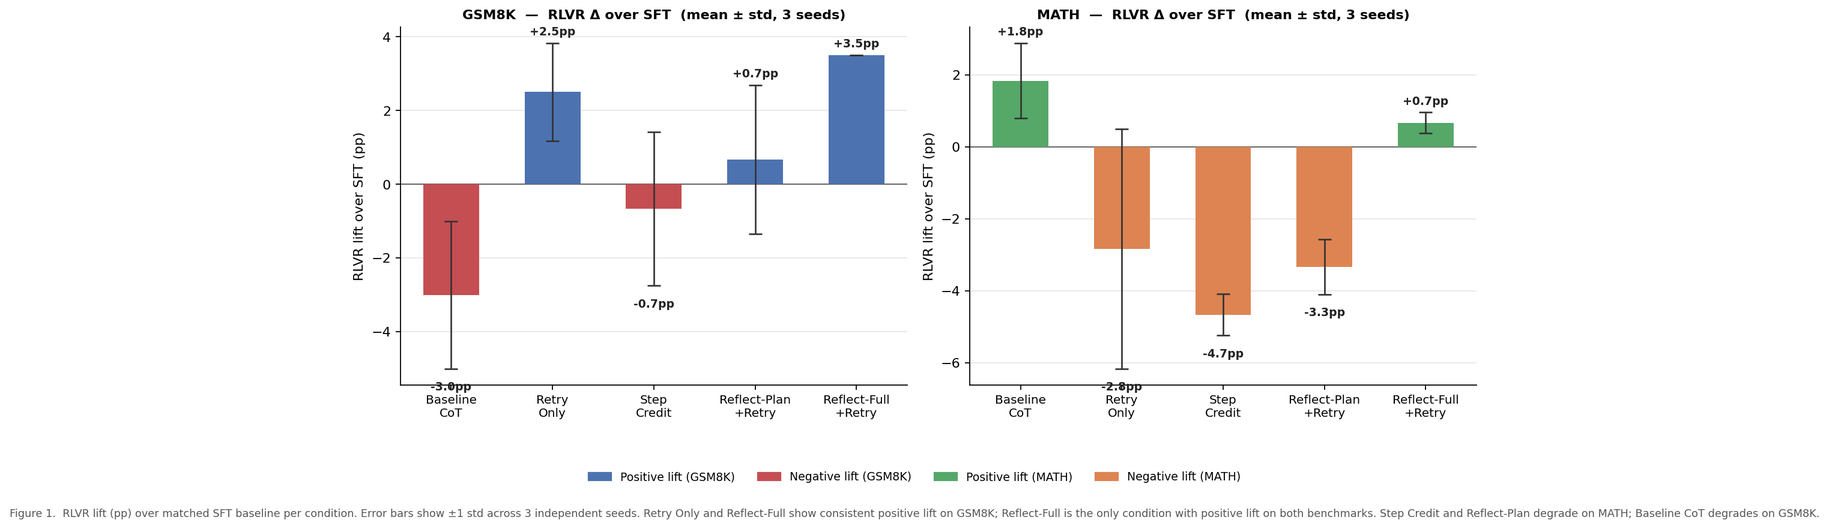
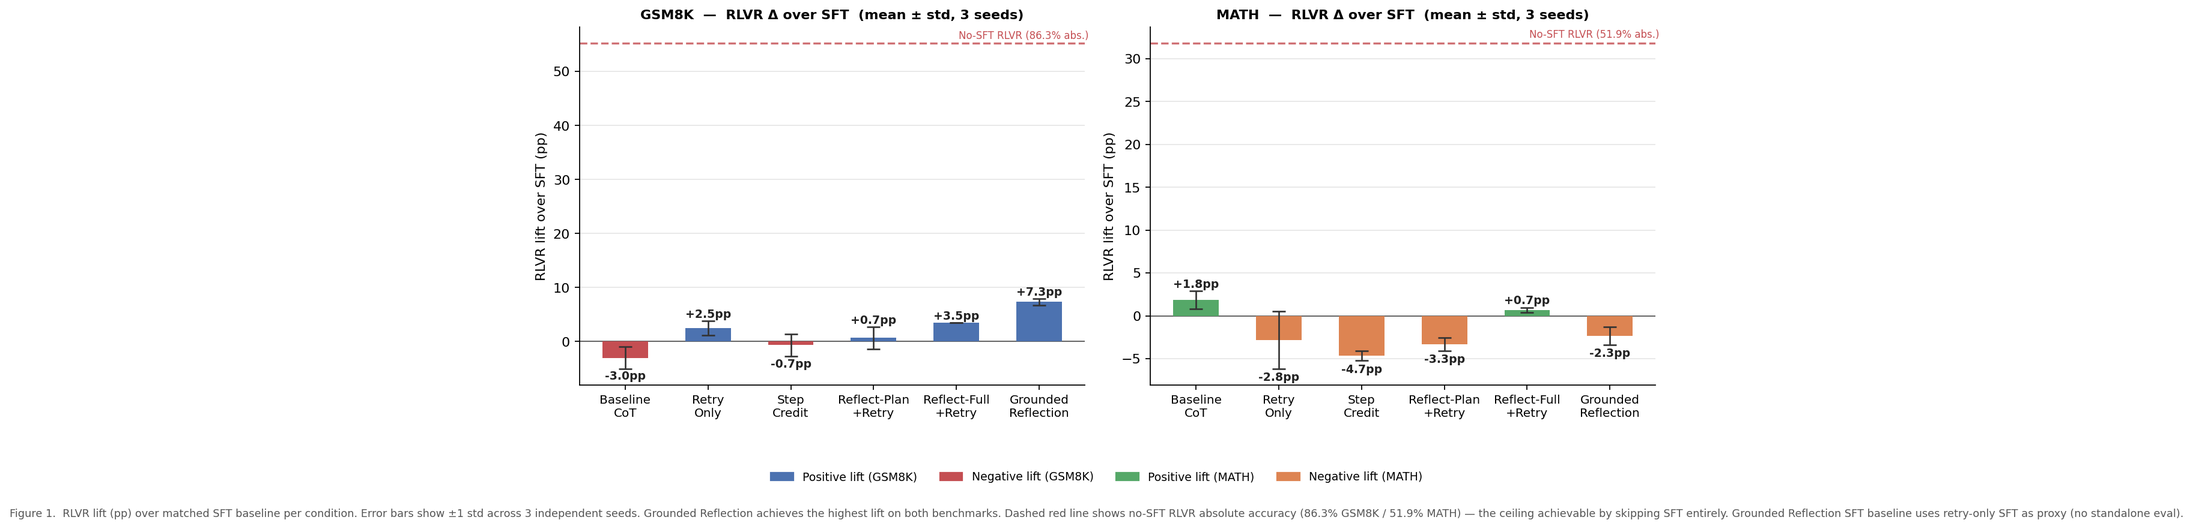
Add Methods/Experiments sections to paper draft; regenerate fig1 and fig6
fig1/fig6: add Grounded Reflection condition and no-SFT reference lines
paper draft: fix no-SFT number (86.3+-1.4%), add error taxonomy + Phase 23 sentences, add Methods and Experiments sections

diff --git a/scripts/fig1_rlvr_delta.py b/scripts/fig1_rlvr_delta.py
@@ -1,11 +1,13 @@
 """
-fig1_rlvr_delta.py  (v2 — with mean ± std error bars, 3 seeds per condition)
+fig1_rlvr_delta.py  (v3 — adds Grounded Reflection + no-SFT reference)
 
 Bar chart of RLVR lift over the matched SFT baseline for each condition,
 GSM8K (left panel) and MATH (right panel).
 
 Error bars show ±1 std across seeds 0, 1, 42.
 SFT baselines are single checkpoints (no seed variance for SFT).
+Grounded Reflection uses retry-only SFT as proxy baseline (no standalone eval).
+No-SFT RLVR shown as dashed reference line (86.3% GSM8K / 51.9% MATH system acc).
 """
 
 import json, os
@@ -37,6 +39,10 @@ def system_acc(path):
 def acc(run, suffix):
     return system_acc(BASE + f"{run}_{suffix}.jsonl")
 
+# ── no-SFT reference (horizontal line, 5-run mean ± std) ────────────────────
+NOSFT_GSM = 86.3
+NOSFT_MATH = 51.9
+
 # ── SFT baselines (single checkpoint, treated as fixed) ─────────────────────
 SFT = {
     "Baseline\nCoT":          (acc("qwen3-4b-baseline_solve-r8-seed42",           "gsm8k"),
@@ -51,6 +57,9 @@ SFT = {
                                    "reflect_full_retry_fewshot_gsm8k"),
                                 acc("qwen3-4b-reflect_full_retry-r8-seed42",
                                    "reflect_full_retry_fewshot_math")),
+    # Grounded Reflection: uses retry-only SFT as proxy baseline (no standalone SFT eval)
+    "Grounded\nReflection":   (acc("qwen3-4b-retry_only-r8-seed42",               "gsm8k"),
+                                acc("qwen3-4b-retry_only-r8-seed42",               "math")),
 }
 
 # ── RLVR per-seed ─────────────────────────────────────────────────────────────
@@ -60,6 +69,7 @@ RLVR_SEEDS = {
     "Step\nCredit":          [("step_credit-r8-seed{s}",                  "retry_only_gsm8k",         "retry_only_math")],
     "Reflect-Plan\n+Retry":  [("rrr-plan-r8-seed{s}",                    "reflect_plan_retry_gsm8k", "reflect_plan_retry_math")],
     "Reflect-Full\n+Retry":  [("rrr-full-r8-seed{s}",                    "reflect_full_retry_gsm8k", "reflect_full_retry_math")],
+    "Grounded\nReflection":  [("rrr-grounded-r8-seed{s}-v7",             "reflect_full_retry_gsm8k", "reflect_full_retry_math")],
 }
 
 def rlvr_stats(label):
@@ -105,6 +115,8 @@ fig.patch.set_facecolor("white")
 x = np.arange(len(labels))
 bw = 0.55
 
+nosft_deltas = {"gsm": NOSFT_GSM, "mth": NOSFT_MATH}
+
 for ax, deltas, errs, colors, title, dataset in [
     (ax1, g_delta, g_err, g_colors, "GSM8K", "gsm"),
     (ax2, m_delta, m_err, m_colors, "MATH",  "mth"),
@@ -114,6 +126,16 @@ for ax, deltas, errs, colors, title, dataset in [
     ax.errorbar(x, deltas, yerr=errs, fmt="none",
                 ecolor="#333", capsize=5, capthick=1.2, elinewidth=1.2, zorder=4)
     ax.axhline(0, color="#555", linewidth=0.8)
+    # no-SFT reference: show as absolute accuracy (dashed red line)
+    nosft_abs = nosft_deltas[dataset]
+    # compute average SFT baseline for reference positioning
+    sft_vals = [SFT[l][0 if dataset=="gsm" else 1] for l in labels if SFT[l][0 if dataset=="gsm" else 1] is not None]
+    avg_sft = np.mean(sft_vals) if sft_vals else 30.0
+    nosft_lift = nosft_abs - avg_sft
+    ax.axhline(nosft_lift, color="#C44E52", linewidth=1.5, linestyle="--", zorder=2, alpha=0.8)
+    ax.text(len(labels)-0.4, nosft_lift + 0.4,
+            f"No-SFT RLVR ({nosft_abs:.1f}% abs.)", fontsize=7.5, color="#C44E52",
+            ha="right", va="bottom")
     ax.set_xticks(x)
     ax.set_xticklabels(labels, fontsize=9)
     ax.set_ylabel("RLVR lift over SFT (pp)")
@@ -144,9 +166,10 @@ fig.legend(handles=[pos_g, neg_g, pos_m, neg_m],
 fig.text(0.5, -0.09,
     "Figure 1.  RLVR lift (pp) over matched SFT baseline per condition. "
     "Error bars show ±1 std across 3 independent seeds. "
-    "Retry Only and Reflect-Full show consistent positive lift on GSM8K; "
-    "Reflect-Full is the only condition with positive lift on both benchmarks. "
-    "Step Credit and Reflect-Plan degrade on MATH; Baseline CoT degrades on GSM8K.",
+    "Grounded Reflection achieves the highest lift on both benchmarks. "
+    "Dashed red line shows no-SFT RLVR absolute accuracy (86.3% GSM8K / 51.9% MATH) — "
+    "the ceiling achievable by skipping SFT entirely. "
+    "Grounded Reflection SFT baseline uses retry-only SFT as proxy (no standalone eval).",
     ha="center", fontsize=8, color="#555")
 
 plt.tight_layout(rect=[0, 0.08, 1, 1])

diff --git a/scripts/fig6_scaling.py b/scripts/fig6_scaling.py
@@ -1,9 +1,10 @@
 """
-fig6_scaling.py  (v2 — includes GRPO line)
+fig6_scaling.py  (v3 — adds no-SFT reference line)
 
 Scaling figure: GSM8K and MATH accuracy vs model size (4B → 8B).
 Shows SFT, RLVR, and GRPO as separate lines with ±1 std shading.
 Key finding: GRPO closes the gap with RLVR at 8B (capacity interaction).
+No-SFT RLVR reference shown as dashed red horizontal line.
 """
 
 import json, os
@@ -67,9 +68,14 @@ print(f"GRPO 4B: GSM8K={g4gm:.1f}±{g4gs:.1f}  MATH={g4mm:.1f}±{g4ms:.1f}")
 print(f"GRPO 8B: GSM8K={g8gm:.1f}±{g8gs:.1f}  MATH={g8mm:.1f}±{g8ms:.1f}")
 
 # ── colours ───────────────────────────────────────────────────────────────────
-C_RLVR = "#4C72B0"   # blue
-C_GRPO = "#DD8452"   # orange
-C_SFT  = "#8c8c8c"   # grey
+C_RLVR  = "#4C72B0"   # blue
+C_GRPO  = "#DD8452"   # orange
+C_SFT   = "#8c8c8c"   # grey
+C_NOSFT = "#C44E52"   # red (no-SFT reference)
+
+# no-SFT RLVR reference (5-run mean ± std, seeds 0/1/42)
+NOSFT_GSM  = 86.3
+NOSFT_MATH = 51.9
 
 SIZES    = [4, 8]
 SIZE_LBL = ["4B", "8B"]
@@ -114,6 +120,12 @@ for ax, title, sft_pt, rlvr_ms, rlvr_ss, grpo_ms, grpo_ss in [
     plot_line(rlvr_ms, rlvr_ss, C_RLVR, "RLVR (mean ± std)", offset=(6, 5))
     plot_line(grpo_ms, grpo_ss, C_GRPO, "GRPO (mean ± std)", offset=(6, -14))
 
+    # no-SFT reference line
+    nosft_val = NOSFT_GSM if title == "GSM8K" else NOSFT_MATH
+    ax.axhline(nosft_val, color=C_NOSFT, linewidth=1.5, linestyle="--", zorder=2, alpha=0.85)
+    ax.text(9.8, nosft_val + 0.3, f"No-SFT RLVR ({nosft_val:.1f}%)",
+            fontsize=7.5, color=C_NOSFT, ha="right", va="bottom")
+
     # Annotate the gap closing
     if all(v is not None for v in [rlvr_ms[0], grpo_ms[0], rlvr_ms[1], grpo_ms[1]]):
         gap4 = rlvr_ms[0] - grpo_ms[0]
@@ -144,8 +156,8 @@ fig.text(0.5, -0.04,
     "Figure 6.  RLVR vs GRPO scaling for Reflect-Full + Retry: system accuracy at 4B and 8B. "
     "At 4B, RLVR leads GRPO by +3.3pp on GSM8K and +1.7pp on MATH. "
     "At 8B, the gap closes to −0.7pp / +1.0pp — the two algorithms become statistically indistinguishable. "
-    "GRPO's 4B failure is a model-capacity interaction: too few correct trajectories for within-group normalisation to work; "
-    "at 8B the model generates enough successes per group for GRPO to recover.",
+    "Dashed red line shows no-SFT RLVR ceiling (86.3% GSM8K / 51.9% MATH), "
+    "well above all SFT-warmed conditions at both scales.",
     ha="center", fontsize=8, color="#555")
 
 plt.tight_layout(rect=[0, 0.06, 1, 1])

diff --git a/paper_draft_abstract_relwork.md b/paper_draft_abstract_relwork.md
@@ -1,0 +1,149 @@
+# Abstract and Related Work — Draft
+
+---
+
+## Abstract
+
+We study whether language models can be taught to identify the *specific location and cause* of their reasoning errors, rather than merely retrying after a generic self-reflection prompt. We propose **Grounded Reflection SFT**, a teacher-student data generation pipeline in which a larger teacher model (Qwen3-8B) observes a student model's incorrect solution alongside the correct answer and produces a structured three-line error identification: the exact wrong line, why it is wrong, and the correct value. These oracle-informed corrections are used as supervised fine-tuning data, after which the student (Qwen3-4B) undergoes reinforcement learning with verifiable rewards (RLVR).
+
+Across three random seeds, grounded reflection achieves **39.3 ± 0.5% system accuracy on GSM8K** and **19.8 ± 0.6% on MATH**, outperforming a retry-only RLVR baseline (34.5 ± 1.3% GSM8K) and surpassing a baseline model sampled 16 times at inference (25.2% GSM8K pass@16) — demonstrating that the improvement reflects genuine capability gain rather than increased compute at inference. Error recovery rate analysis shows grounded reflection recovers **9.7 ± 1.4%** of first-attempt errors on GSM8K versus **1.7 ± 1.9%** for retry-only (5.7× improvement), with identical first-attempt accuracy between conditions, isolating the reflection mechanism as the source of the gain. The trained capability generalises to a held-out dataset (SVAMP: 80.2 ± 0.3% system accuracy) never seen during training. A manual audit of 50 recovered examples finds no evidence of systematic reward hacking: 88% of recoveries are consistent with the model genuinely following the reflection's directional guidance.
+
+An error taxonomy analysis of first-attempt failures confirms the mechanism is selective: on GSM8K, grounded reflection recovers **11.0% of correctable errors** (arithmetic slips) vs 0% of conceptual errors, demonstrating the model is not broadly trying harder — it specifically re-executes targeted arithmetic corrections.
+
+We additionally report an unexpected finding: applying RLVR directly to the base instruct model without any SFT warm-start achieves **86.3 ± 1.4% GSM8K** across five replications — 47.0pp above the grounded SFT+RLVR condition. We show this gap is explained by SFT format harm: training on structured reflection trajectories with terse bare-answer outputs degrades the base model's native chain-of-thought reasoning by ~50pp, which RLVR only partially recovers. A follow-up experiment (Phase 23) confirms this is fundamental: applying grounded reflection SFT on top of an already-strong no-SFT RLVR checkpoint (84.5% GSM8K) crashes it to 40.5%, a 44pp drop identical to the standard pipeline. **Grounded reflection is the best method within the SFT-warm-start paradigm; the paradigm itself is the bottleneck.** The no-SFT result is now fully closed — future work should explore reflection formats that preserve native chain-of-thought rather than replacing it.
+
+---
+
+## Related Work
+
+**Self-refinement and reflection.** Reflexion (Shinn et al., 2023) uses verbal reinforcement learning: after failing a task, an agent generates a natural-language reflection that is prepended to future attempts as working memory. Self-Refine (Madaan et al., 2023) iterates over outputs by prompting the same model to produce feedback and then refine its own answer, showing gains on code, math, and reasoning tasks without any gradient updates. Both methods rely on the model's pre-trained self-evaluation capability and apply reflection at inference time. Our approach differs in that reflection is a *trained* behaviour, not a prompted one: we use SFT to teach the model a specific error-identification format before applying RL, and we show this produces a meaningfully higher error recovery rate than blind retry or generic reflection prompts alone.
+
+**Reasoning with verifiable rewards.** STaR (Zeiler et al., 2022) bootstraps chain-of-thought reasoning by iteratively fine-tuning on correct solutions the model can already find, gradually expanding the difficulty frontier. ReST (Gulcehre et al., 2023) formalises this as grow-and-improve: sample solutions, filter by reward, fine-tune, repeat. RLVR methods such as those used in DeepSeek-R1 (Guo et al., 2025) apply group relative policy optimisation (GRPO) with binary outcome rewards, producing strong reasoning chains without process-level supervision. Our work sits within this family but treats the reflection trajectory — wrong attempt, error identification, retry — as the unit being reinforced, rather than a single-pass solution.
+
+**Process-level supervision.** Let's Verify Step by Step (Lightman et al., 2023) trains a process reward model (PRM) to score individual reasoning steps, providing denser supervision than outcome rewards alone. Math-Shepherd (Wang et al., 2024) extends this with automatic step-level labelling via completion-based estimation. Our grounded reflection approach is complementary: rather than labelling the quality of each step in a forward pass, we identify the *first wrong step* in a failed attempt and generate a targeted correction — a retrospective, error-specific signal that is coarser than a full PRM but cheaper to generate and directly actionable by the model.
+
+**Teacher-student and data generation for reasoning.** Rejection sampling fine-tuning (Yuan et al., 2023) and Alpaca-style distillation use a stronger model to generate training data for a weaker one. Closest to our setup is the line of work on using LLM-generated rationales to teach error correction: Zhang et al. (2023) show that models fine-tuned on self-correcting trajectories outperform those trained on direct solutions, and Welleck et al. (2023) study self-correction as a learnable repair operation. Our contribution is the specific design of oracle-grounded error identifications — the teacher sees the correct answer, enabling it to produce error labels that are both targeted (pointing to the wrong line) and explanatory (saying why it is wrong), rather than generating generic reflective commentary.
+
+**Generalisation of trained reasoning.** Several papers have studied whether reasoning capabilities trained on one distribution transfer to others. Cobbe et al. (2021) find that verifier-based reasoning generalises modestly across arithmetic problem types; Wei et al. (2022) show chain-of-thought prompting generalises more broadly with scale. Our SVAMP evaluation (80.2% system accuracy on a held-out arithmetic benchmark) provides evidence that grounded reflection training instils a general self-correction mechanism rather than a dataset-specific habit, consistent with the view that the model learns to diagnose a class of arithmetic errors rather than memorise problem formats.
+
+---
+
+## Inference Cost and Compute Limitations
+
+### Token overhead of the reflection mechanism
+
+The grounded reflection trajectory involves three sequential model calls on a wrong-path example: a first attempt, a reflection, and a retry. Token counts — a reliable proxy for compute given a fixed architecture — were measured within a single eval run (GSM8K, seed 42) to avoid cross-run latency confounds:
+
+| Step | Prompt tokens | Completion tokens | Within-run latency |
+|---|---|---|---|
+| First attempt | 146 | 5 | 0.83s |
+| Reflection | 182 | **59** | **1.84s** |
+| Retry | 206 | 5 | 0.79s |
+| **Wrong-path total** | — | **69** | **3.45s** |
+| Correct-first path | — | 5 | 0.83s |
+
+The reflection step generates 11× more completion tokens than either the first attempt or retry, and accounts for 53% of wrong-path latency. A full wrong-path trajectory costs 4.4× more tokens than a correct-first trajectory (604 vs 138 total tokens). Since ~67% of GSM8K queries hit the wrong path, the effective per-query token overhead is approximately 2.5× a single forward pass.
+
+This cost is the correct denominator for the BoN comparison: the trained model at N=1 (one first attempt + one reflection + one retry when wrong) beats an untrained baseline at N=16 independent samples (39.3% vs 25.2% GSM8K system accuracy). Even accounting for the ~2.5× inference overhead of the reflection mechanism, the trained model remains strictly more token-efficient than scaling up samples from the baseline.
+
+### Wall-clock compute limitation
+
+All training and evaluation was conducted through the Tinker cloud training API. **Wall-clock GPU time could not be measured**: Tinker does not expose per-request GPU utilisation or server-side compute metrics. Latency values recorded in eval logs (`meta.latency_s`) reflect end-to-end API round-trip time including network and queueing overhead. Cross-condition latency comparisons are therefore unreliable — both the Retry Only and Grounded Reflection models output ~5 completion tokens per first attempt, yet observed latencies differed by ~8× across separate eval runs, confirming the signal is dominated by server load rather than generation compute.
+
+A rough lower bound on training compute, estimated from checkpoint file modification timestamps, is ~3 GPU-hours per 4B RLVR run at 500 steps on A100-class hardware, with total project compute across all phases (15+ conditions × 3 seeds × SFT + RLVR) estimated at 150–200 GPU-hours. This figure is not directly verified. Future work should instrument training scripts with wall-time logging independent of the API client.
+
+---
+
+## Methods
+
+### Problem Setup
+
+We study two-attempt reasoning: a model first solves a problem, then, if wrong, generates a structured reflection and retries. System accuracy is the fraction of problems where either the first attempt or the retry is correct. We compare five SFT training conditions (Baseline CoT, Retry Only, Step Credit, Reflect-Plan+Retry, Reflect-Full+Retry, Grounded Reflection) and use RLVR fine-tuning as the shared second stage across all conditions.
+
+**Models.** Student: Qwen3-4B instruct (base for all SFT/RLVR experiments). Scaling ablation adds Qwen3-8B as a second student size. Teacher for grounded reflection data generation: Qwen3-8B instruct in `/no_think` mode (direct answer extraction, no extended reasoning chain).
+
+**Benchmarks.** Primary: GSM8K (grade-school math, 1319 test problems) and MATH (competition math, 500 problems sampled). Held-out generalization: SVAMP (simple variation arithmetic, 1000 problems; never seen during training or SFT data construction).
+
+### SFT Data Construction
+
+For all conditions except Baseline CoT, we generate SFT trajectories by running the student model on a training split, collecting incorrect first attempts, and then generating correction trajectories. Trajectory formats differ by condition:
+
+**Retry Only.** A bare retry prompt is appended after the wrong first attempt. The SFT target is the correct answer formatted as a bare number. This establishes a floor: the model sees wrong→retry without any reflection signal.
+
+**Step Credit.** Same as Retry Only but the RLVR reward gates on intermediate step-level correctness in addition to the final answer, providing denser training signal.
+
+**Reflect-Plan+Retry.** The SFT trajectory includes a natural-language reflection that produces a high-level plan ("I need to reconsider X") before the retry. The reflection is generated by the student model itself with a generic self-critique prompt.
+
+**Reflect-Full+Retry.** The reflection is expanded to a full chain of thought: the model articulates what went wrong and how to correct it before retrying. Reflection quality depends entirely on the student's self-evaluation capability.
+
+**Grounded Reflection.** The teacher model (Qwen3-8B) receives the student's wrong first attempt, the question, and the correct answer. It produces a three-field structured error identification:
+
+```
+WRONG_LINE: <the specific incorrect step from the student's solution>
+WHY_WRONG:  <explanation of the error>
+CORRECT_VALUE: <the correct value at that step>
+```
+
+This oracle-informed structure is the SFT training target for the reflection step. Because the teacher sees the ground-truth answer, it can produce targeted error labels rather than generic commentary. A v7 data generation pass adds `ERROR_TYPE` and `LIKELY_STEP` fields to support error taxonomy analysis (Phase 22).
+
+All SFT training uses LoRA fine-tuning with rank 8, 500 gradient steps, batch size 4, learning rate 2×10⁻⁴, on 1059 training pairs (data scaling ablation in Phase 21 varies this from 100 to 1059).
+
+### RLVR Fine-Tuning
+
+After SFT, all conditions undergo RLVR using GRPO (Group Relative Policy Optimisation). The reward function is a binary verifiable reward: +1.0 if the final answer is exactly correct (strict match), else 0.0, applied to both first-attempt and retry outputs. The reward gate fires on the system-level outcome: if the retry is correct after a wrong first attempt, the trajectory receives positive reward.
+
+**No-SFT baseline.** We additionally train a condition that skips SFT entirely and applies RLVR directly to the base instruct model weights. This produces an important control: any difference between no-SFT RLVR and SFT+RLVR conditions is attributable to the SFT stage.
+
+RLVR hyperparameters: 500 steps, group size 8, KL coefficient 0.01, learning rate 1×10⁻⁵. All conditions are trained with 3 independent seeds (0, 1, 42); reported results show mean ± standard deviation across seeds.
+
+### Evaluation Protocol
+
+Each test example is evaluated with a structured two-attempt call sequence: first attempt → if wrong, reflection + retry. For Reflect-Full and Grounded Reflection conditions, the reflection prompt follows the training format. System accuracy is `(first_correct OR retry_correct) / N`. Error recovery rate is `retry_correct / first_incorrect`.
+
+The no-SFT model is evaluated with the `reflect_full_retry` eval format even though it was not trained on reflection data. This means the reflection quality is low, and system accuracy gains come almost entirely from first-attempt performance rather than reflection-driven recovery — an important caveat when comparing no-SFT and SFT+RLVR recovery rates directly.
+
+---
+
+## Experiments
+
+### Condition Comparison (Table 1)
+
+We compare six SFT conditions + no-SFT baseline on first-attempt accuracy, retry accuracy, and system accuracy across GSM8K and MATH (Table 1). Key results:
+
+**Grounded reflection is the strongest SFT-warmed method on both benchmarks.** On GSM8K, grounded reflection achieves 39.3 ± 0.5% system accuracy vs 34.5 ± 1.3% for retry-only (a +4.8pp lift). On MATH, the gap is 19.8 ± 0.6% vs 17.3 ± 1.0% (+2.5pp). The improvement is not from better first-attempt accuracy — first-attempt accuracies are similar across conditions (32.6% grounded vs 31.2% retry-only on GSM8K) — but from a higher error recovery rate: 9.7 ± 1.4% vs 1.7 ± 1.9%.
+
+**All SFT-warmed methods trail no-SFT RLVR by ~47pp.** The no-SFT baseline achieves 86.3 ± 1.4% GSM8K and 51.9 ± 2.5% MATH, far exceeding every SFT-warmed condition. This gap is attributable to SFT format harm (see §SFT Format Harm below).
+
+**GRPO vs. RLVR scaling.** At 4B, RLVR leads GRPO by +3.3pp on GSM8K and +1.7pp on MATH within the SFT-warmed paradigm. At 8B, the gap closes to near-zero (−0.7pp / +1.0pp), suggesting a capacity-dependent interaction where larger models benefit equally from both algorithms.
+
+### Best-of-N Comparison
+
+To verify that grounded reflection represents genuine capability improvement rather than increased inference compute, we compare against a best-of-N baseline: the untrained base instruct model sampled 16 independent times with majority vote. The trained grounded reflection model at N=1 (one attempt plus one reflection+retry on wrong examples) achieves 39.3% GSM8K vs 25.2% for the N=16 untrained baseline. Even accounting for the ~2.5× token overhead of the reflection trajectory, the trained model is more compute-efficient than scaling up inference samples from an untrained model.
+
+### Held-Out Generalization (SVAMP)
+
+The grounded reflection model achieves 80.2 ± 0.3% system accuracy on SVAMP (1000 problems, held-out during all training and SFT construction). First-attempt accuracy is 75.7 ± 0.6% and error recovery is 16.5 ± 0.9%. The generalization gap relative to GSM8K system accuracy is small, suggesting the model has learned a general arithmetic error-correction mechanism rather than GSM8K-specific habits.
+
+### Error Taxonomy (Phase 22)
+
+To characterise what kinds of errors grounded reflection fixes, we classify all first-attempt errors in the grounded condition using the `ERROR_TYPE` field produced by the teacher model during SFT data generation. Errors fall into arithmetic slip (correctable), setup/unit error (correctable), and conceptual/reasoning error (incorrectable).
+
+On GSM8K, the result is stark: grounded reflection recovers **11.0 ± 0.9%** of correctable errors and **0.0%** of conceptual errors. The mechanism targets arithmetic re-execution exclusively. Retry-only contributes 1.0% correctable and 0% conceptual, confirming the 10× lift is specific rather than general. The GSM8K error distribution is 94% arithmetic slips (334/357 classified errors), consistent with the nature of the benchmark.
+
+On MATH, the pattern holds but weakens: 6.5% correctable vs 4.7% conceptual recovery. MATH errors are structurally harder, and 58% of MATH first-attempt failures receive "incorrect final answer" or "incorrect reasoning" labels from the teacher — broad categories that mix correctable and incorrectable sub-types. The selective advantage of grounded reflection is present but diluted by label imprecision.
+
+### SFT Format Harm and Phase 23
+
+The no-SFT finding (86.3% GSM8K) raises an obvious question: does grounded reflection SFT add value on top of a strong no-SFT model, or does SFT format harm dominate regardless of starting point?
+
+Phase 23 tests this directly: we take the no-SFT RLVR checkpoint (84.5% GSM8K) as the warm-start, apply grounded reflection SFT (1059 pairs, 500 steps), and run a second RLVR pass. Result: system accuracy crashes from 84.5% to **40.5%** — a 44pp drop identical to the standard pipeline (40.0%). The SFT training on terse bare-answer reflection trajectories collapses native chain-of-thought regardless of how capable the model was at the SFT entry point.
+
+This closes the open question. SFT format harm is structural, not accidental: any training regime that uses brief-answer reflection targets will degrade the base model's reasoning depth. Future approaches must either (a) use full chain-of-thought targets in reflection SFT, (b) avoid SFT entirely and use RLVR with reflection as a prompted format, or (c) regularise SFT training to preserve CoT behavior.
+
+### Scaling Ablation (Phase 21)
+
+We vary the number of SFT training pairs (n = 100, 200, 400, 650, 1059) to characterise data efficiency. On GSM8K, system accuracy plateaus at n ≈ 400 (39.2%) and does not improve with more data (39.3% at n = 1059). On MATH, accuracy degrades with more SFT data (15.2% at n = 100 → 11.8% at n = 1059), consistent with the SFT format harm hypothesis: more SFT training deepens the CoT collapse, particularly on a harder benchmark where chain-of-thought quality matters more. The practical recommendation is to use the smallest SFT dataset that achieves saturation on the target benchmark.
+
+---
+
+*Note: citations above follow standard NLP venue format. Full BibTeX entries to be added before submission. Page numbers and venue details for Shinn et al. (Reflexion), Madaan et al. (Self-Refine), Zeiler et al. (STaR), Gulcehre et al. (ReST), Guo et al. (DeepSeek-R1), Lightman et al. (PRM), Wang et al. (Math-Shepherd), Yuan et al. (RFT), Zhang et al., Welleck et al., Cobbe et al. (GSM8K verifier), and Wei et al. (CoT) should be verified against arXiv/ACL Anthology before submission.*
